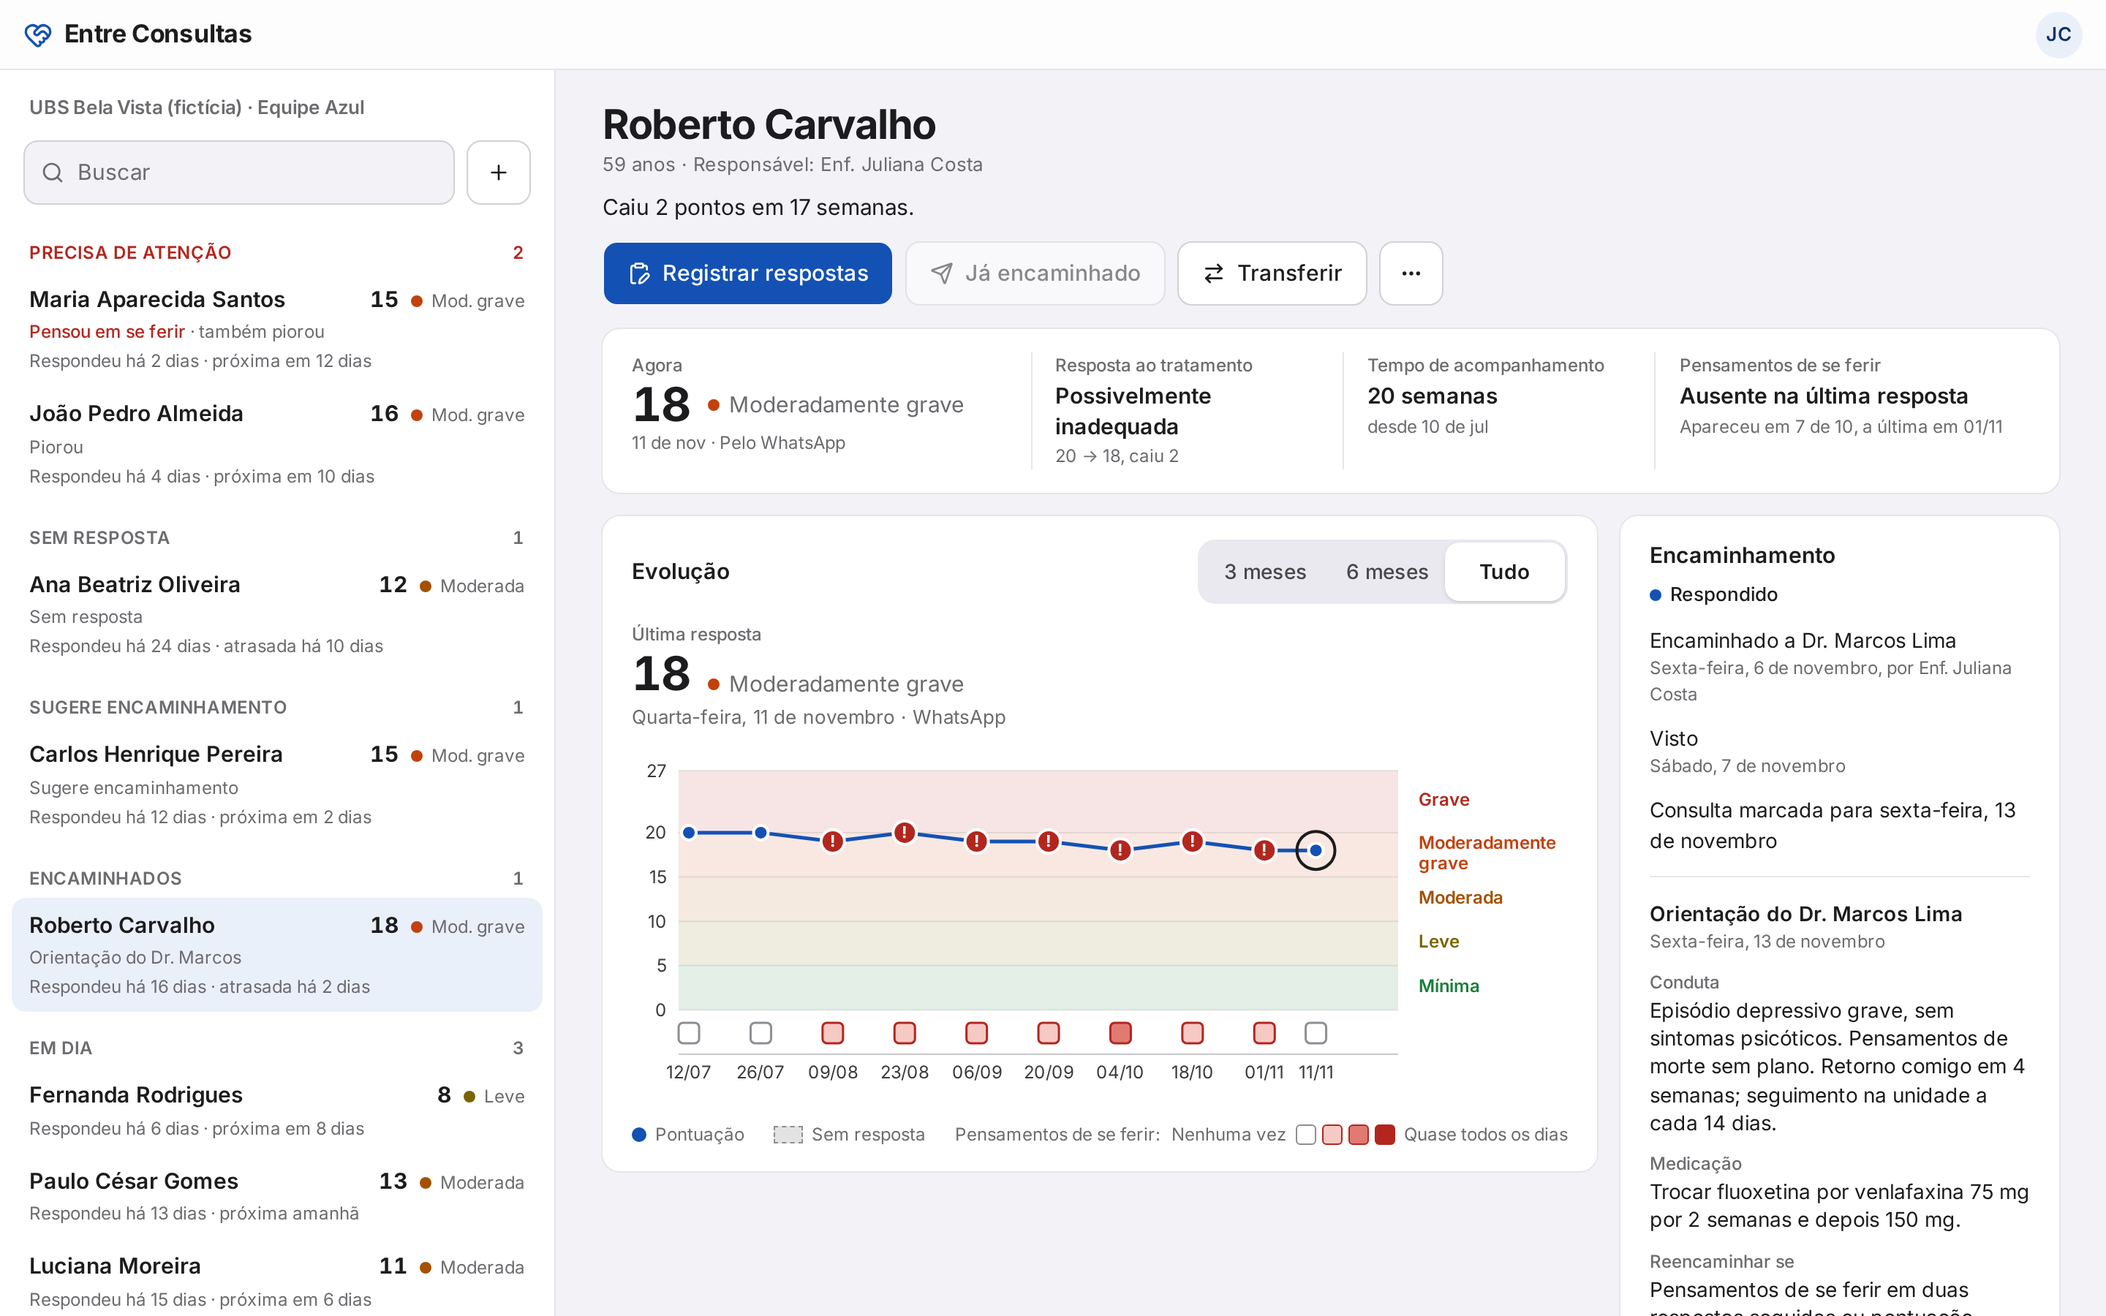
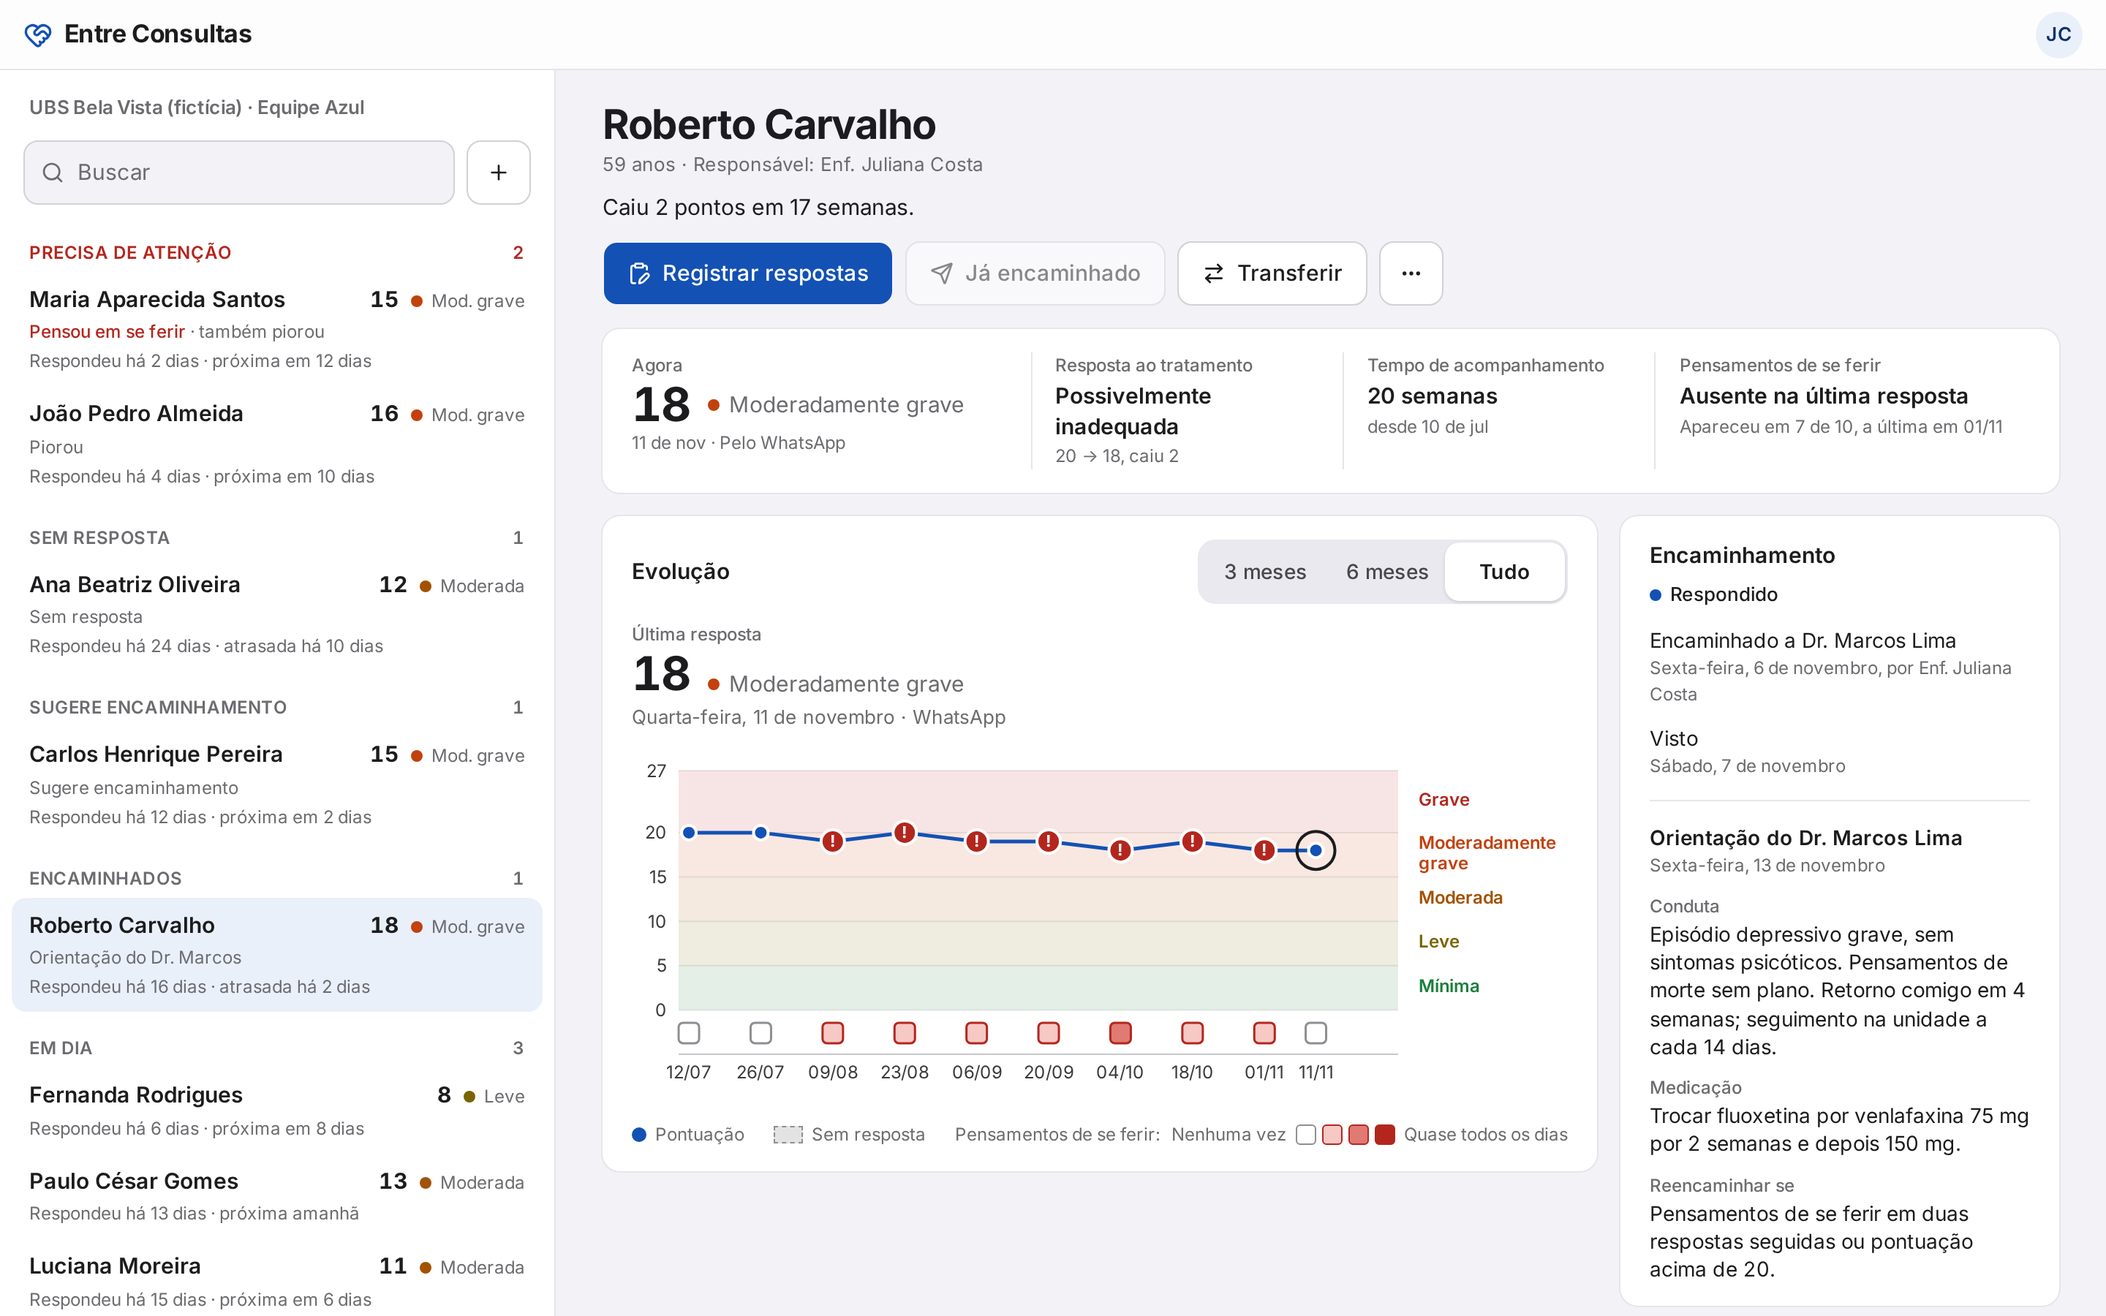
refactor(psiquiatra): tirar a marcação de consulta do encaminhamento
No SUS quem agenda a consulta com o especialista é a regulação (SISREG), não o psiquiatra num sistema da unidade. Manter o botão duplicava esse fluxo e abria a pergunta na apresentação. O encaminhamento fica em Novo, Visto e Respondido; a contrarreferência continua.

Changed region(s): [[0.7812, 0.5911, 0.9688, 1.0]]

diff --git a/src/telas/psiquiatra/DetalheEncaminhamento.tsx b/src/telas/psiquiatra/DetalheEncaminhamento.tsx
@@ -1,4 +1,4 @@
-import { CalendarPlus, ChevronLeft, FileX, Pencil, Reply } from 'lucide-react'
+import { ChevronLeft, FileX, Pencil, Reply } from 'lucide-react'
 import { useEffect, useMemo } from 'react'
 import { Link, useParams, useSearchParams } from 'react-router'
 import { CartaoAgora } from '@/componentes/CartaoAgora'
@@ -8,12 +8,11 @@ import { PainelEvolucao } from '@/componentes/PainelEvolucao'
 import { Button } from '@/componentes/ui/button'
 import { CADASTROS, UNIDADE, nomeDoUsuario } from '@/dados/fixtures'
 import { situacaoEncaminhamento } from '@/dominio/encaminhamento'
-import { HOJE, dataLonga, dataPorExtenso, idade } from '@/dominio/hoje'
+import { HOJE, dataLonga, idade } from '@/dominio/hoje'
 import type { Encaminhamento } from '@/dominio/tipos'
 import { fichaDoEncaminhamento, useDados } from '@/estado/consultas'
 import { useStore, useUsuarioLogado } from '@/estado/store'
 import { CartaoContrarreferencia, PainelContrarreferencia } from './PainelContrarreferencia'
-import { PainelConsulta } from './PainelConsulta'
 
 const VOLTAR = (
   <Button asChild variant="ghost" className="self-start px-2">
@@ -27,11 +26,9 @@ const VOLTAR = (
 function textoSituacao(e: Encaminhamento): string {
   switch (situacaoEncaminhamento(e)) {
     case 'novo':
-      return 'Novo, ainda sem consulta marcada'
+      return 'Novo, ainda sem resposta à unidade'
     case 'visto':
-      return 'Visto, ainda sem consulta marcada'
-    case 'consulta-marcada':
-      return `Consulta marcada para ${dataPorExtenso(e.consulta!.data).toLowerCase()}`
+      return 'Visto, ainda sem resposta à unidade'
     case 'respondido':
       return `Respondido em ${dataLonga(e.contrarreferencia!.data)}`
   }
@@ -44,7 +41,7 @@ export function DetalheEncaminhamento() {
   const marcarVisto = useStore((s) => s.marcarVisto)
   const [params, setParams] = useSearchParams()
   const painel = params.get('painel')
-  const abrirPainel = (nome: 'consulta' | 'responder') =>
+  const abrirPainel = (nome: 'responder') =>
     setParams((atual) => {
       const proximo = new URLSearchParams(atual)
       proximo.set('painel', nome)
@@ -114,16 +111,10 @@ export function DetalheEncaminhamento() {
               Editar resposta
             </Button>
           ) : (
-            <>
-              <Button variant="outline" onClick={() => abrirPainel('consulta')}>
-                <CalendarPlus aria-hidden />
-                {encaminhamento.consulta ? 'Remarcar consulta' : 'Marcar consulta'}
-              </Button>
-              <Button onClick={() => abrirPainel('responder')}>
-                <Reply aria-hidden />
-                Responder à unidade
-              </Button>
-            </>
+            <Button onClick={() => abrirPainel('responder')}>
+              <Reply aria-hidden />
+              Responder à unidade
+            </Button>
           )}
         </div>
       </header>
@@ -156,14 +147,6 @@ export function DetalheEncaminhamento() {
         inspetor
       />
 
-      {painel === 'consulta' && !respondido && (
-        <PainelConsulta
-          fechar={fecharPainel}
-          encaminhamentoId={encaminhamento.id}
-          paciente={cadastro.nome}
-          dataAtual={encaminhamento.consulta?.data}
-        />
-      )}
       {painel === 'responder' && (
         <PainelContrarreferencia
           fechar={fecharPainel}

diff --git a/src/telas/psiquiatra/ListaEncaminhamentos.tsx b/src/telas/psiquiatra/ListaEncaminhamentos.tsx
@@ -4,8 +4,8 @@ import { Link, useNavigate } from 'react-router'
 import { BadgeFaixa } from '@/componentes/BadgeFaixa'
 import { EstadoVazio } from '@/componentes/EstadoVazio'
 import { UNIDADE } from '@/dados/fixtures'
-import { situacaoEncaminhamento } from '@/dominio/encaminhamento'
-import { HOJE, dataCurta, dataRelativa, idade } from '@/dominio/hoje'
+import { NOMES_SITUACAO, situacaoEncaminhamento } from '@/dominio/encaminhamento'
+import { HOJE, dataRelativa, idade } from '@/dominio/hoje'
 import { pontuacao } from '@/dominio/phq9'
 import { useEncaminhamentosDe, type CasoEncaminhado } from '@/estado/consultas'
 import { useUsuarioLogado } from '@/estado/store'
@@ -16,20 +16,6 @@ const COLUNAS = ['Paciente', 'Situação', 'Agora', 'Motivo', 'Encaminhado']
 const Legenda = ({ children }: { children: ReactNode }) => (
   <p className="text-[12px] leading-snug text-muted-foreground">{children}</p>
 )
-
-function textoSituacao(caso: CasoEncaminhado): string {
-  const { encaminhamento } = caso
-  switch (situacaoEncaminhamento(encaminhamento)) {
-    case 'novo':
-      return 'Novo'
-    case 'visto':
-      return 'Visto'
-    case 'consulta-marcada':
-      return `Consulta ${dataCurta(encaminhamento.consulta!.data)}`
-    case 'respondido':
-      return 'Respondido'
-  }
-}
 
 export function ListaEncaminhamentos() {
   const usuario = useUsuarioLogado()!
@@ -149,7 +135,7 @@ function Linha({ caso }: { caso: CasoEncaminhado }) {
         </div>
       </td>
       <td className={cn('px-3 py-2.5 text-[14px] leading-snug', novo ? 'font-semibold text-primary' : 'text-muted-foreground')}>
-        {textoSituacao(caso)}
+        {NOMES_SITUACAO[situacaoEncaminhamento(caso.encaminhamento)]}
       </td>
       <td className="px-3 py-2.5">
         {total !== null ? (

diff --git a/src/dados/fixtures.ts b/src/dados/fixtures.ts
@@ -259,7 +259,6 @@ export const ENCAMINHAMENTOS: Encaminhamento[] = [
       tratamentos: 'Fluoxetina 20 mg por 8 semanas e depois 40 mg por 6 semanas, sem melhora. Acompanhamento com a enfermagem da unidade.',
     }),
     vistoEm: somarDias(HOJE, -20),
-    consulta: { data: somarDias(HOJE, -14), marcadaEm: somarDias(HOJE, -20) },
     contrarreferencia: {
       data: somarDias(HOJE, -14),
       conduta:
@@ -288,7 +287,6 @@ export const ENCAMINHAMENTOS: Encaminhamento[] = [
       tratamentos: 'Sertralina 100 mg há 10 semanas, compatível com amamentação.',
     }),
     vistoEm: somarDias(HOJE, -29),
-    consulta: { data: somarDias(HOJE, 5), marcadaEm: somarDias(HOJE, -28) },
   },
   encaminhamento('antonio', 6, 'rafael', {
     motivo: 'Luto pela esposa há 4 meses, pontuação subindo e pensamento de se ferir na última visita.',
@@ -302,7 +300,6 @@ export const ENCAMINHAMENTOS: Encaminhamento[] = [
       tratamentos: 'Fluoxetina 20 mg por 4 semanas, sem efeito. Trocada por amitriptilina 25 mg há 3 semanas.',
     }),
     vistoEm: somarDias(HOJE, -98),
-    consulta: { data: somarDias(HOJE, -85), marcadaEm: somarDias(HOJE, -98) },
     contrarreferencia: {
       data: somarDias(HOJE, -85),
       conduta: 'Depressão moderada com boa resposta inicial. Sem necessidade de seguimento especializado agora.',

diff --git a/src/dominio/encaminhamento.test.ts b/src/dominio/encaminhamento.test.ts
@@ -8,21 +8,12 @@ describe('situacaoEncaminhamento', () => {
     expect(situacaoEncaminhamento({})).toBe('novo')
   })
 
-  it('avança para visto, consulta marcada e respondido', () => {
+  it('avança para visto e depois respondido', () => {
     expect(situacaoEncaminhamento({ vistoEm: '2026-11-10' })).toBe('visto')
-    expect(situacaoEncaminhamento({ vistoEm: '2026-11-10', consulta: { data: '2026-11-18', marcadaEm: '2026-11-10' } })).toBe(
-      'consulta-marcada',
-    )
-    expect(
-      situacaoEncaminhamento({
-        vistoEm: '2026-11-10',
-        consulta: { data: '2026-11-18', marcadaEm: '2026-11-10' },
-        contrarreferencia: resposta,
-      }),
-    ).toBe('respondido')
+    expect(situacaoEncaminhamento({ vistoEm: '2026-11-10', contrarreferencia: resposta })).toBe('respondido')
   })
 
-  it('a contrarreferência fecha o encaminhamento mesmo sem consulta registrada', () => {
+  it('a contrarreferência fecha o encaminhamento mesmo sem visto registrado', () => {
     expect(situacaoEncaminhamento({ contrarreferencia: resposta })).toBe('respondido')
   })
 })

diff --git a/src/dominio/encaminhamento.ts b/src/dominio/encaminhamento.ts
@@ -1,10 +1,9 @@
 import type { Encaminhamento } from './tipos'
 
-export type SituacaoEncaminhamento = 'novo' | 'visto' | 'consulta-marcada' | 'respondido'
+export type SituacaoEncaminhamento = 'novo' | 'visto' | 'respondido'
 
-export function situacaoEncaminhamento(e: Pick<Encaminhamento, 'vistoEm' | 'consulta' | 'contrarreferencia'>): SituacaoEncaminhamento {
+export function situacaoEncaminhamento(e: Pick<Encaminhamento, 'vistoEm' | 'contrarreferencia'>): SituacaoEncaminhamento {
   if (e.contrarreferencia) return 'respondido'
-  if (e.consulta) return 'consulta-marcada'
   if (e.vistoEm) return 'visto'
   return 'novo'
 }
@@ -12,6 +11,5 @@ export function situacaoEncaminhamento(e: Pick<Encaminhamento, 'vistoEm' | 'cons
 export const NOMES_SITUACAO: Record<SituacaoEncaminhamento, string> = {
   novo: 'Novo',
   visto: 'Visto',
-  'consulta-marcada': 'Consulta marcada',
   respondido: 'Respondido',
 }

diff --git a/src/estado/store.ts b/src/estado/store.ts
@@ -73,7 +73,6 @@ interface Estado extends Dados {
     detalhe?: string
   }) => void
   marcarVisto: (encaminhamentoId: string) => void
-  marcarConsulta: (encaminhamentoId: string, data: string) => void
   responderEncaminhamento: (encaminhamentoId: string, resposta: Omit<Contrarreferencia, 'data'>) => void
   definirRascunho: (canal: CanalPaciente, rascunho: Rascunho | undefined) => void
   reiniciar: () => void
@@ -209,11 +208,6 @@ export const useStore = create<Estado>()(
       marcarVisto: (id) =>
         set((s) => ({
           encaminhamentos: s.encaminhamentos.map((e) => (e.id === id && !e.vistoEm ? { ...e, vistoEm: HOJE } : e)),
-        })),
-
-      marcarConsulta: (id, data) =>
-        set((s) => ({
-          encaminhamentos: s.encaminhamentos.map((e) => (e.id === id ? { ...e, consulta: { data, marcadaEm: HOJE } } : e)),
         })),
 
       responderEncaminhamento: (id, resposta) =>

diff --git a/src/componentes/CartaoEncaminhamento.tsx b/src/componentes/CartaoEncaminhamento.tsx
@@ -36,7 +36,6 @@ export function CartaoEncaminhamento({ encaminhamento: e }: { encaminhamento: En
           legenda={`${dataPorExtenso(e.data)}, por ${nomeDoUsuario(e.profissionalId)}`}
         />
         {e.vistoEm && <Linha titulo="Visto" legenda={dataPorExtenso(e.vistoEm)} />}
-        {e.consulta && <Linha titulo={`Consulta marcada para ${dataPorExtenso(e.consulta.data).toLowerCase()}`} />}
       </ul>
       {contra && (
         <div className="mt-3.5 flex flex-col gap-2.5 border-t pt-3.5">

diff --git a/src/telas/equipe/secoes.ts b/src/telas/equipe/secoes.ts
@@ -77,8 +77,6 @@ function situacao(ficha: Ficha): string | null {
       return `Enviado ao ${nomeCurto(e.psiquiatraId)}`
     case 'visto':
       return `Visto pelo ${nomeCurto(e.psiquiatraId)}`
-    case 'consulta-marcada':
-      return `Consulta marcada ${emDias(e.consulta!.data)}`
     case 'respondido':
       return `Orientação do ${nomeCurto(e.psiquiatraId)}`
   }

diff --git a/src/dominio/tipos.ts b/src/dominio/tipos.ts
@@ -70,7 +70,6 @@ export interface Encaminhamento {
   tratamentos: string
   resumo: ResumoEncaminhamento
   vistoEm?: string
-  consulta?: { data: string; marcadaEm: string }
   contrarreferencia?: Contrarreferencia
 }
 

diff --git a/docs/spec.md b/docs/spec.md
@@ -36,7 +36,7 @@ O paciente responde por três canais, o que quiser a cada vez: conversa no Whats
 | 009 | Ver encaminhamentos recebidos | Psiquiatra | lista (paciente, situação, última pontuação e faixa, motivo, data) e resumo do encaminhamento | 007, 008, 012 | 006, 011 |
 | 010 | Receber lembrete do questionário | Paciente | celular, data prevista, botões "Responder aqui" (abre a conversa no WhatsApp) e "Responder no site" (link) | 002, 005 | 004, 009 |
 | 011 | Transferir paciente | Profissional da unidade | tipo (acompanhamento ou encaminhamento), destino, motivo (férias, afastamento, desligamento, outro), data, quem transferiu | 005, 006, 008 | 010 |
-| 012 | Responder encaminhamento | Psiquiatra, Profissional da unidade | data da consulta marcada; contrarreferência: conduta, medicação, quando reencaminhar, data. A unidade lê a situação e a orientação na evolução do paciente | 007, 008, 009 | 011 |
+| 012 | Responder encaminhamento | Psiquiatra, Profissional da unidade | contrarreferência: conduta, medicação, quando reencaminhar, data. A unidade lê a situação e a orientação na evolução do paciente | 007, 008, 009 | 011 |
 
 No WhatsApp o paciente é reconhecido pelo número do cadastro, sem login; o login do R.F. 001 vale para o site e usa a conta gov.br para os três perfis. O resumo do R.F. 008 cobre o que a linha de cuidado exige no encaminhamento: quadro atual e ideação saem do sistema; prejuízo funcional e tratamentos já feitos o profissional preenche. O R.F. 012 fecha o ciclo: o encaminhamento volta para a unidade com a orientação do especialista, e a unidade continua coordenando o cuidado.
 
@@ -54,7 +54,7 @@ No WhatsApp o paciente é reconhecido pelo número do cadastro, sem login; o log
 | R.N. 008 | Destaques da lista | Prioridade: Risco (R.N. 001); Piorou (a última pontuação está numa faixa acima da anterior); Sem resposta (7 dias depois da data prevista); Sugere encaminhamento (R.N. 003); Em dia. A lista agrupa pelo destaque mais alto, numa seção para cada um, e mostra os outros como texto na linha. Paciente com encaminhamento fica na seção Encaminhados. Destaque sempre com texto, nunca só cor |
 | R.N. 009 | Lembrete | WhatsApp na data prevista e de novo 3 dias depois, só para quem tem celular no cadastro, com os botões "Responder aqui" e "Responder no site". O texto do lembrete não leva dado de saúde |
 | R.N. 010 | Transferência | Qualquer profissional da mesma equipe transfere o acompanhamento para outro profissional da mesma equipe, ou redireciona um encaminhamento para outro psiquiatra. Motivo obrigatório. O histórico vai junto e a transferência fica registrada (quem, quando, motivo) |
-| R.N. 011 | Contrarreferência | O encaminhamento passa por Novo, Visto (quando o psiquiatra abre), Consulta marcada e Respondido (quando a orientação volta para a unidade). Conduta, medicação e quando reencaminhar são obrigatórios. O paciente continua sendo acompanhado pela unidade |
+| R.N. 011 | Contrarreferência | O encaminhamento passa por Novo, Visto (quando o psiquiatra abre) e Respondido (quando a orientação volta para a unidade). A consulta com o especialista é agendada pela regulação, fora do sistema. Conduta, medicação e quando reencaminhar são obrigatórios. O paciente continua sendo acompanhado pela unidade |
 
 ## Histórias de usuário
 
@@ -160,7 +160,7 @@ A equipe da unidade vê a pontuação, a faixa e a pergunta 9, não as respostas
 
 Lista em tabela, em duas seções ("Para atender" e "Respondidos"): paciente, situação (ponto azul nos novos), última pontuação e faixa, motivo e quando chegou o encaminhamento. A ordem é pensamentos de se ferir na última resposta, depois a pontuação mais alta e, no empate, quem espera há mais tempo.
 
-Resumo: o texto do encaminhamento, o cartão "Agora", o mesmo gráfico e a tabela "Respostas ao longo do tempo", com cada pergunta (de 0 a 3) e cada estressor numa linha por data. Um painel fixo à direita abre na última resposta e mostra as nove perguntas por extenso, a resposta, a mudança desde a anterior e os estressores; troca de resposta pelas setas, pelos pontos do gráfico ou pelas datas da tabela. O painel e a tabela vão além do R.F. 007 e foram aprovados na revisão das telas. Abrir o resumo marca o encaminhamento como visto; os botões "Marcar consulta" e "Responder à unidade" registram o R.F. 012.
+Resumo: o texto do encaminhamento, o cartão "Agora", o mesmo gráfico e a tabela "Respostas ao longo do tempo", com cada pergunta (de 0 a 3) e cada estressor numa linha por data. Um painel fixo à direita abre na última resposta e mostra as nove perguntas por extenso, a resposta, a mudança desde a anterior e os estressores; troca de resposta pelas setas, pelos pontos do gráfico ou pelas datas da tabela. O painel e a tabela vão além do R.F. 007 e foram aprovados na revisão das telas. Abrir o resumo marca o encaminhamento como visto; o botão "Responder à unidade" registra o R.F. 012.
 
 ### Boas práticas de UI
 

diff --git a/README.md b/README.md
@@ -35,7 +35,7 @@ A conversa do WhatsApp da paciente Ana Beatriz fica em `/whatsapp` e não pede l
 2. Entre como Juliana: a Ana sobe para o topo da lista com o destaque Risco, e a evolução mostra o ponto novo com alerta e canal WhatsApp.
 3. Abra o Carlos, que aparece com "Sugere encaminhamento", e encaminhe para o Dr. Marcos.
 4. Entre como Marcos: o Carlos entra na lista de encaminhamentos como Novo, na ordem de prioridade, e o resumo abre com as respostas completas no painel à direita.
-5. No resumo do Carlos, marque a consulta e depois responda à unidade com conduta, medicação e quando reencaminhar.
+5. No resumo do Carlos, responda à unidade com conduta, medicação e quando reencaminhar.
 6. Volte como Juliana: a ficha do Carlos mostra a orientação do Dr. Marcos.
 
 ## Comandos
